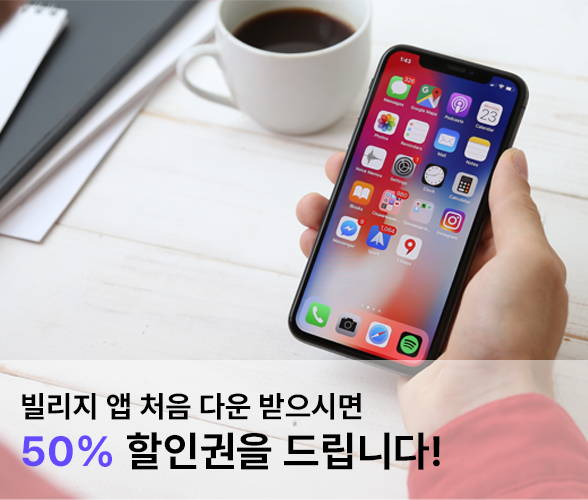
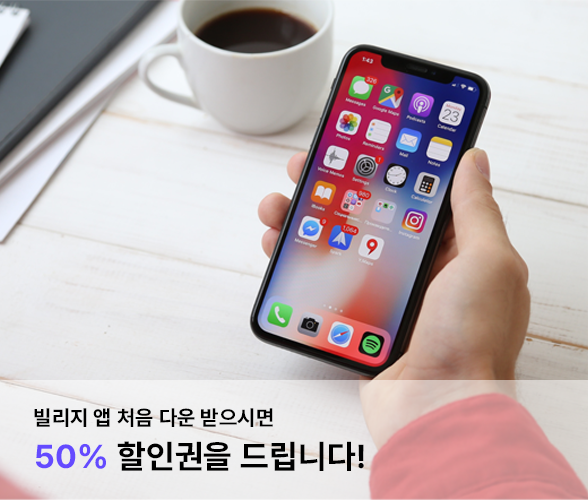
fix : 메인, 검색 카드 CSS수정, 이미지 슬라이드 수정

diff --git a/src/components/home/VerticalCard.jsx b/src/components/home/VerticalCard.jsx
@@ -33,7 +33,7 @@ function VerticalCard({data}) {
 
     return (
         <Div marginTop="6rem">
-            <Span>새로 등록된 대여 물품을 확인해보세요!</Span>
+            <NewRegistTitle>새로 등록된 대여 물품을 확인해보세요!</NewRegistTitle>
             <GridDiv width="100%" gridTC="repeat(4, 1fr)">
                 {data?.productList?.map((item) => 
                     <Cards
@@ -50,9 +50,9 @@ function VerticalCard({data}) {
                           }
                           <CardImg src={item?.image} alt="" style={{width:"100%", height:"100%", objectFit: "cover"}}/>
                         </Div>
-                        <Div width="100%" padding="0.5rem" style={{boxSizing: "border-box"}} gap="0.5rem">
-                            <Div fDirection="row" width="100%" jc="space-between" style={{textOverflow:"ellipsis"}}>
-                                <span style={{marginTop:"auto", marginBottom:"auto", fontSize:"18px", fontWeight:"700"}}>{item?.title}</span>
+                        <Div width="100%" padding="1rem" gap="1rem" style={{boxSizing: "border-box"}}>
+                            <Div fDirection="row" width="100%" jc="space-between">
+                                <CardTitle>{item?.title}</CardTitle>
                                 <img
                                     src={item?.checkZzim ? "/images/fHeart.png" : "/images/eHeart.png"}
                                     alt="zzimStatus"
@@ -60,9 +60,9 @@ function VerticalCard({data}) {
                                     onClick={()=>{mutate("")}}
                                 />
                             </Div>
-                            <Div marginBottom="0.5rem" gap="0.5rem" style={{color:"#191919"}}>
-                                <span>{item?.location}</span>
-                                <span>가격 {item?.price}원</span>
+                            <Div width="100%" gap="0.5rem">
+                                <LocationSpan>{item?.location}</LocationSpan>
+                                <PriceSpan>1일 기준 {(item?.price).toString().replace(/\B(?=(\d{3})+(?!\d))/g, ',')}원</PriceSpan>
                             </Div>
                         </Div>
                     </Cards>
@@ -74,10 +74,35 @@ function VerticalCard({data}) {
 
 export default VerticalCard
 
-const Span = styled.span`
+const NewRegistTitle = styled.span`
     font-size: 1.5rem;
     font-weight: 700;
     margin-bottom: 2rem;
+`
+
+const CardTitle = styled.span`
+  margin-top: auto;
+  margin-bottom: auto;
+  font-size: 18px;
+  font-weight: 700;
+  overflow: hidden;
+  white-space: nowrap;
+  text-overflow: ellipsis;
+`
+
+const LocationSpan = styled.span`
+  width: 100%;
+  color: #999999;
+  overflow: hidden;
+  white-space: nowrap;
+  text-overflow: ellipsis;
+`
+
+const PriceSpan = styled.span`
+  width: 100%;
+  overflow: hidden;
+  white-space: nowrap;
+  text-overflow: ellipsis;
 `
 
 const Cards = styled.div`

diff --git a/src/components/search/SearchCards.jsx b/src/components/search/SearchCards.jsx
@@ -39,9 +39,9 @@ function SearchCards({data, isFetchingNextPage, fetchNextPage}) {
                                 }
                                 <CardImg src={item?.image} alt="" style={{width:"100%", height:"100%", objectFit: "cover"}}/>
                             </Div>
-                            <Div width="100%" padding="0.5rem" style={{boxSizing: "border-box"}} gap="0.5rem">
+                            <Div width="100%" padding="1rem" gap="1rem" style={{boxSizing: "border-box"}}>
                                 <Div fDirection="row" width="100%" jc="space-between" style={{textOverflow:"ellipsis"}}>
-                                    <span style={{marginTop:"auto", marginBottom:"auto", fontWeight:"700"}}>{item?.title}</span>
+                                    <TitleSpan>{item?.title}</TitleSpan>
                                     {token == null||undefined
                                         ? null
                                         : <img 
@@ -51,9 +51,9 @@ function SearchCards({data, isFetchingNextPage, fetchNextPage}) {
                                         />
                                     }
                                 </Div>
-                                <Div margin="0 0 0.5rem 0" gap="0.5rem" style={{color:"#191919"}}>
-                                    <span>위치 {item?.location}</span>
-                                    <span>1일 기준 {item?.price}원</span>
+                                <Div width="100%" gap="0.5rem" style={{color:"#191919"}}>
+                                    <LocationSpan>위치 {item?.location}</LocationSpan>
+                                    <PriceSpan>1일 기준 {(item?.price).toString().replace(/\B(?=(\d{3})+(?!\d))/g, ',')}원</PriceSpan>
                                 </Div>
                             </Div>
                         </Cards>
@@ -72,7 +72,7 @@ const Cards = styled.div`
   flex-direction: column;
   width: 100%;
   height: ${({height}) => height};
-  border-radius: 5px;
+  border: 1px solid #e6e6e6;
   overflow: hidden;
   &:hover {
     cursor: pointer;
@@ -93,4 +93,30 @@ const Hot = styled.div`
 const CardImg = styled.img`
   width: 210px;
   height: 210px;
+`
+
+const TitleSpan = styled.span`
+  margin-top: auto;
+  margin-bottom: auto;
+  font-weight: 700;
+  font-size: 18px;
+  overflow: hidden;
+  white-space: nowrap;
+  text-overflow: ellipsis;
+`
+
+const LocationSpan = styled.span`
+  font-size: 14px;
+  width: 100%;
+  color: #999999;
+  overflow: hidden;
+  white-space: nowrap;
+  text-overflow: ellipsis;
+`
+
+const PriceSpan = styled.span`
+  width: 100%;
+  overflow: hidden;
+  white-space: nowrap;
+  text-overflow: ellipsis;
 `

diff --git a/src/components/home/HorizonCard.jsx b/src/components/home/HorizonCard.jsx
@@ -15,16 +15,16 @@ function HorizonCard({data}) {
                     key={nanoid()}
                     onClick={()=>{navi(`/detail/${item?.id}`)}}
                 >
-                    <Div height="100%">
+                    <Div bgColor="#000000">
                         <CardImg src={item?.image} alt="" />
                     </Div>
                     <Div jc="space-between" width="100%" height="100%" padding="1rem 1rem 1rem 0" style={{boxSizing: "border-box"}}>
                         <Div gap="1rem">
-                            <span style={{fontWeight:"700"}}>{item?.title}</span>
-                            <span>{item?.location}</span>
+                            <PriceSpan style={{margin:"auto 0 auto 0"}}>{(item?.price).toString().replace(/\B(?=(\d{3})+(?!\d))/g, ',')}원</PriceSpan>
+                            <TitleSpan>{item?.title}</TitleSpan>
+                            <LocationSpan>{item?.location}</LocationSpan>
                         </Div>
-                        <Div fDirection="row" width="100%" jc="space-between">
-                            <span style={{margin:"auto 0 auto 0"}}>1일 기준 {item?.price}원</span>
+                        <Div fDirection="row" width="100%" jc="end">
                             {!item?.checkZzim
                             ? <img src="/images/eHeart.png" alt="" style={{width:"2rem", height:"2rem"}}/>
                             : <img src="/images/fHeart.png" alt="" style={{width:"2rem", height:"2rem"}}/>
@@ -45,6 +45,7 @@ const Span = styled.span`
     font-weight: 700;
     margin-bottom: 2rem;
 `
+
 const Cards = styled.div`
     display: flex;
     flex-direction: row;
@@ -60,4 +61,31 @@ const Cards = styled.div`
 const CardImg = styled.img`
   width: 210px;
   height: 100%;
+  object-fit: contain;
+`
+
+const TitleSpan = styled.span`
+  margin-top: auto;
+  margin-bottom: auto;
+  overflow: hidden;
+  white-space: nowrap;
+  text-overflow: ellipsis;
+`
+
+const LocationSpan = styled.span`
+  font-size: 14px;
+  width: 100%;
+  color: #999999;
+  overflow: hidden;
+  white-space: nowrap;
+  text-overflow: ellipsis;
+`
+
+const PriceSpan = styled.span`
+  font-weight: 700;
+  font-size: 20px;
+  width: 100%;
+  overflow: hidden;
+  white-space: nowrap;
+  text-overflow: ellipsis;
 `

diff --git a/src/components/home/HomeImgSlide.jsx b/src/components/home/HomeImgSlide.jsx
@@ -8,28 +8,36 @@ function HomeImgSlide() {
     const [count, setCount] = useState(1);
 
     const test = [
-        "/images/main1.png",
+        "/images/main1.jpg",
         "/images/main2.jpg",
         "/images/main3.jpg",
     ]
 
     const styleOption = `
+        width: 100%;
         margin: auto;
         display: flex;
-        width: fit-content; 
         flex-wrap: nowrap;
         transition: all 0.5s;
         flex: none;
-        transform: translateX(-${(count-1)*(false? 585: 1200)}px);
+        transform: translateX(-${(count-1)*(false? 585: 1920)}px);
     `
 
     return (
-        <Div bgColor="black" width="100%" marginTop="2rem">
-            <Div position="relative" margin="auto" width="1200px" height="500px" overflow="hidden">
-                <HomeSlideBtn count={count} setFunc={setCount} total={test.length}/>
+        <Div width="100%" marginTop="2rem" position="relative">
+            <HomeSlideBtn count={count} setFunc={setCount} total={test.length}/>
+            <Div position="relative" margin="auto" width="100%" height="500px" overflow="hidden">
                 <Slide etc={styleOption}>
                     {test.map((imgs) => <Img src={imgs} alt={imgs} key={nanoid()}/>)}
                 </Slide>
+                <CountDiv>
+                {test.map((item, index) => 
+                    <CountBtn 
+                    focused={count}
+                    name={index+1}
+                    onClick={()=>{setCount(index+1)}}></CountBtn>
+                )}
+                </CountDiv>
             </Div>
         </Div>
     )
@@ -45,3 +53,24 @@ const Img = styled.img`
   width: 100%;
   object-fit: contain;
 `
+
+const CountDiv = styled.div`
+    display: flex;
+    gap: 1rem;
+    position: absolute;
+    bottom: 1rem;
+    left: 50%;
+    transform: translate(-50%, 0%);
+    padding: 10px;
+    box-sizing: border-box;
+    gap: 1rem;
+`
+
+const CountBtn = styled.div`
+    background-color: ${({ focused, name }) => focused === name ? `rgb(255, 255, 255, 0.5)` : `rgb(0, 0, 0, 0.5)`};
+    border-radius: 50px;
+    width: 10px;
+    height: 10px;
+    cursor: pointer;
+`
+

diff --git a/src/components/home/HomeSlideBtn.jsx b/src/components/home/HomeSlideBtn.jsx
@@ -39,8 +39,8 @@ const PrevBtn = styled.button`
   top : 50%;
   left : 2%;
   transform: translateY(-50%);
-  width: 2%;
-  height: 8%;
+  width: 24px;
+  height: 36px;
   border : none;
   border-radius: 5px;
   background-color: transparent;
@@ -52,8 +52,8 @@ const NextBtn = styled.button`
   top : 50%;
   right : 2%;
   transform: translateY(-50%);
-  width: 2%;
-  height: 8%;
+  width: 24px;
+  height: 36px;
   border : none;
   border-radius: 5px;
   background-color: transparent;

diff --git a/public/index.html b/public/index.html
@@ -30,6 +30,10 @@
         margin: 0;
         padding: 0;
       }
+
+      * ::-webkit-scrollbar {
+        display: none;
+      }
     </style>
     <title>React App</title>
   </head>
